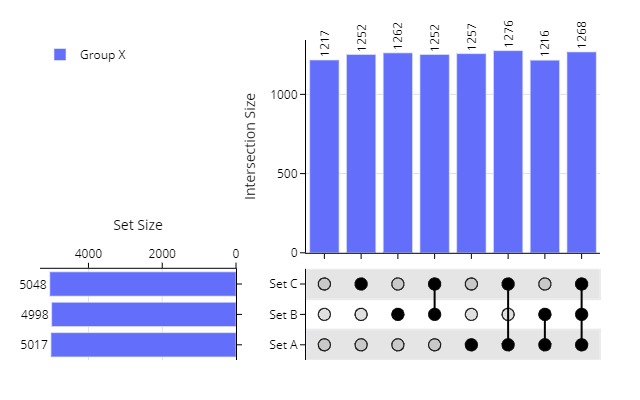
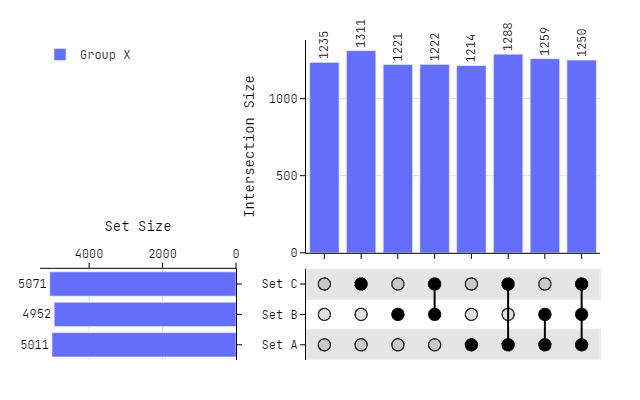
Updated `README.md`

diff --git a/README.md b/README.md
@@ -18,13 +18,109 @@ from plotly_upset.plotting import plot_upset
 
 # Dummy Data
 set_list = ["Set A", "Set B", "Set C"]
-df = pd.DataFrame(np.random.randint(0, 2, size=(10_000, 3)), columns=set_list)
+df = pd.DataFrame(
+    np.random.randint(0, 2, size=(10_000, len(set_list))), columns=set_list
+)
 
+# Plotting
 fig = plot_upset(
-	dataframes=[df],
-	legendgroups=["Group X"]
+    dataframes=[df],
+    legendgroups=["Group X"]
+)
+
+fig.update_layout(
+    font_family="Jetbrains Mono",
 )
 
 fig.show()
 ```
-[example-01](https://raw.githubusercontent.com/hshhrr/plotly-upset/main/img/example-01.png?raw=true)
+
+![example-01](https://raw.githubusercontent.com/hshhrr/plotly-upset/main/img/example-01.png?raw=true)
+
+### Scaling (Sets)
+
+```python
+# 4 Sets
+set_list = ["Set A", "Set B", "Set C", "Set D"]
+df = pd.DataFrame(
+    np.random.randint(0, 2, size=(10_000, len(set_list))), columns=set_list
+)
+
+# Plotting
+fig = plot_upset(
+    dataframes=[df],
+    legendgroups=["Group X"]
+)
+
+fig.update_layout(
+    width=800,
+    font_family="Jetbrains Mono",
+)
+
+fig.show()
+```
+
+![example-02](https://raw.githubusercontent.com/hshhrr/plotly-upset/main/img/example-02.png?raw=true)
+
+### Scaling (Dataframes)
+
+```python
+# 3 Dataframes
+set_list = ["Set A", "Set B", "Set C"]
+df0 = pd.DataFrame(
+    np.random.randint(0, 2, size=(10_000, len(set_list))), columns=set_list
+)
+df1 = pd.DataFrame(
+    np.random.randint(0, 2, size=(10_000, len(set_list))), columns=set_list
+)
+df2 = pd.DataFrame(
+    np.random.randint(0, 2, size=(10_000, len(set_list))), columns=set_list
+)
+
+# Plotting
+fig = plot_upset(
+    dataframes=[df0, df1, df2],
+    legendgroups=["Group X", "Group Y", "Group Z"]
+)
+
+fig.update_layout(
+    height=500,
+    width=800,
+    font_family="Jetbrains Mono",
+)
+
+fig.show()
+```
+
+![example-03](https://raw.githubusercontent.com/hshhrr/plotly-upset/main/img/example-03.png?raw=true)
+
+### Custom Marker Colors
+
+```python
+# Dummy Data
+set_list = ["Set A", "Set B", "Set C"]
+df0 = pd.DataFrame(
+    np.random.randint(0, 2, size=(10_000, len(set_list))), columns=set_list
+)
+df1 = pd.DataFrame(
+    np.random.randint(0, 2, size=(10_000, len(set_list))), columns=set_list
+)
+
+# Custom Marker Colors
+cmc = ["#651FFF", "#00E676"]
+
+# Plotting
+fig = plot_upset(
+    dataframes=[df0, df1],
+    legendgroups=["Group X", "Group Y"],
+    marker_colors=cmc,
+)
+
+fig.update_layout(
+    font_family="Jetbrains Mono",
+)
+
+fig.show()
+```
+
+![example-04](https://raw.githubusercontent.com/hshhrr/plotly-upset/main/img/example-04.png?raw=true)
